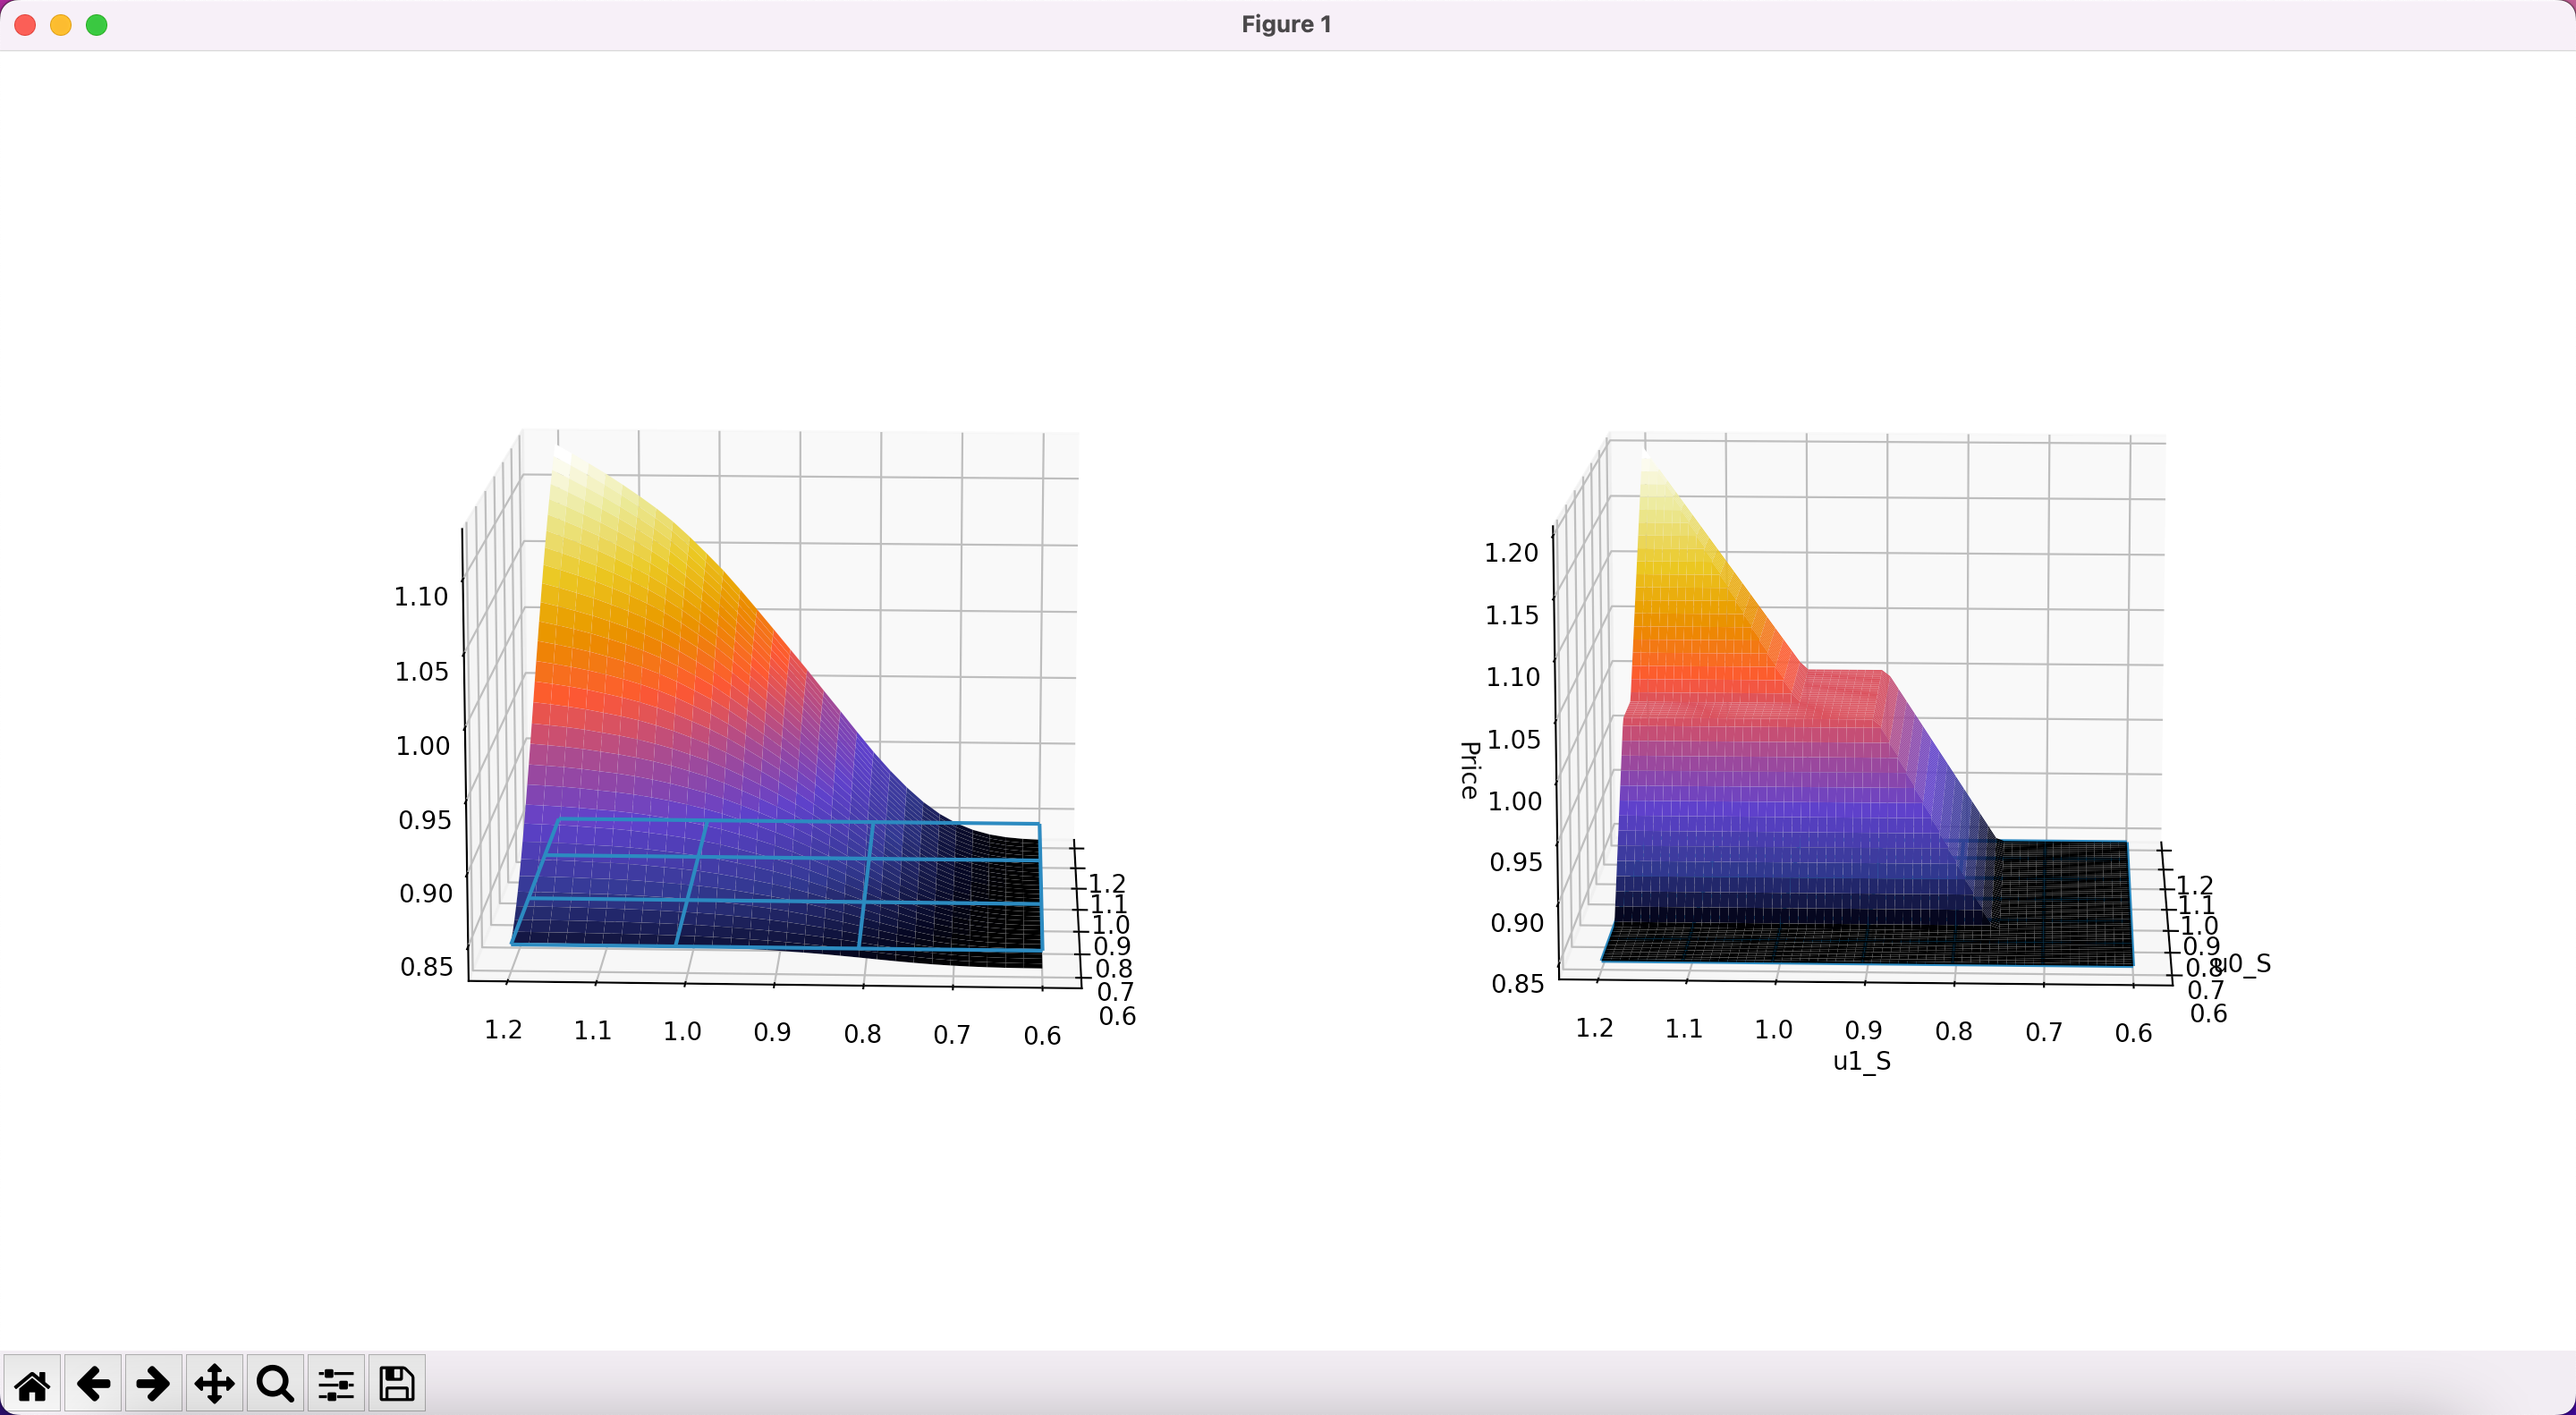
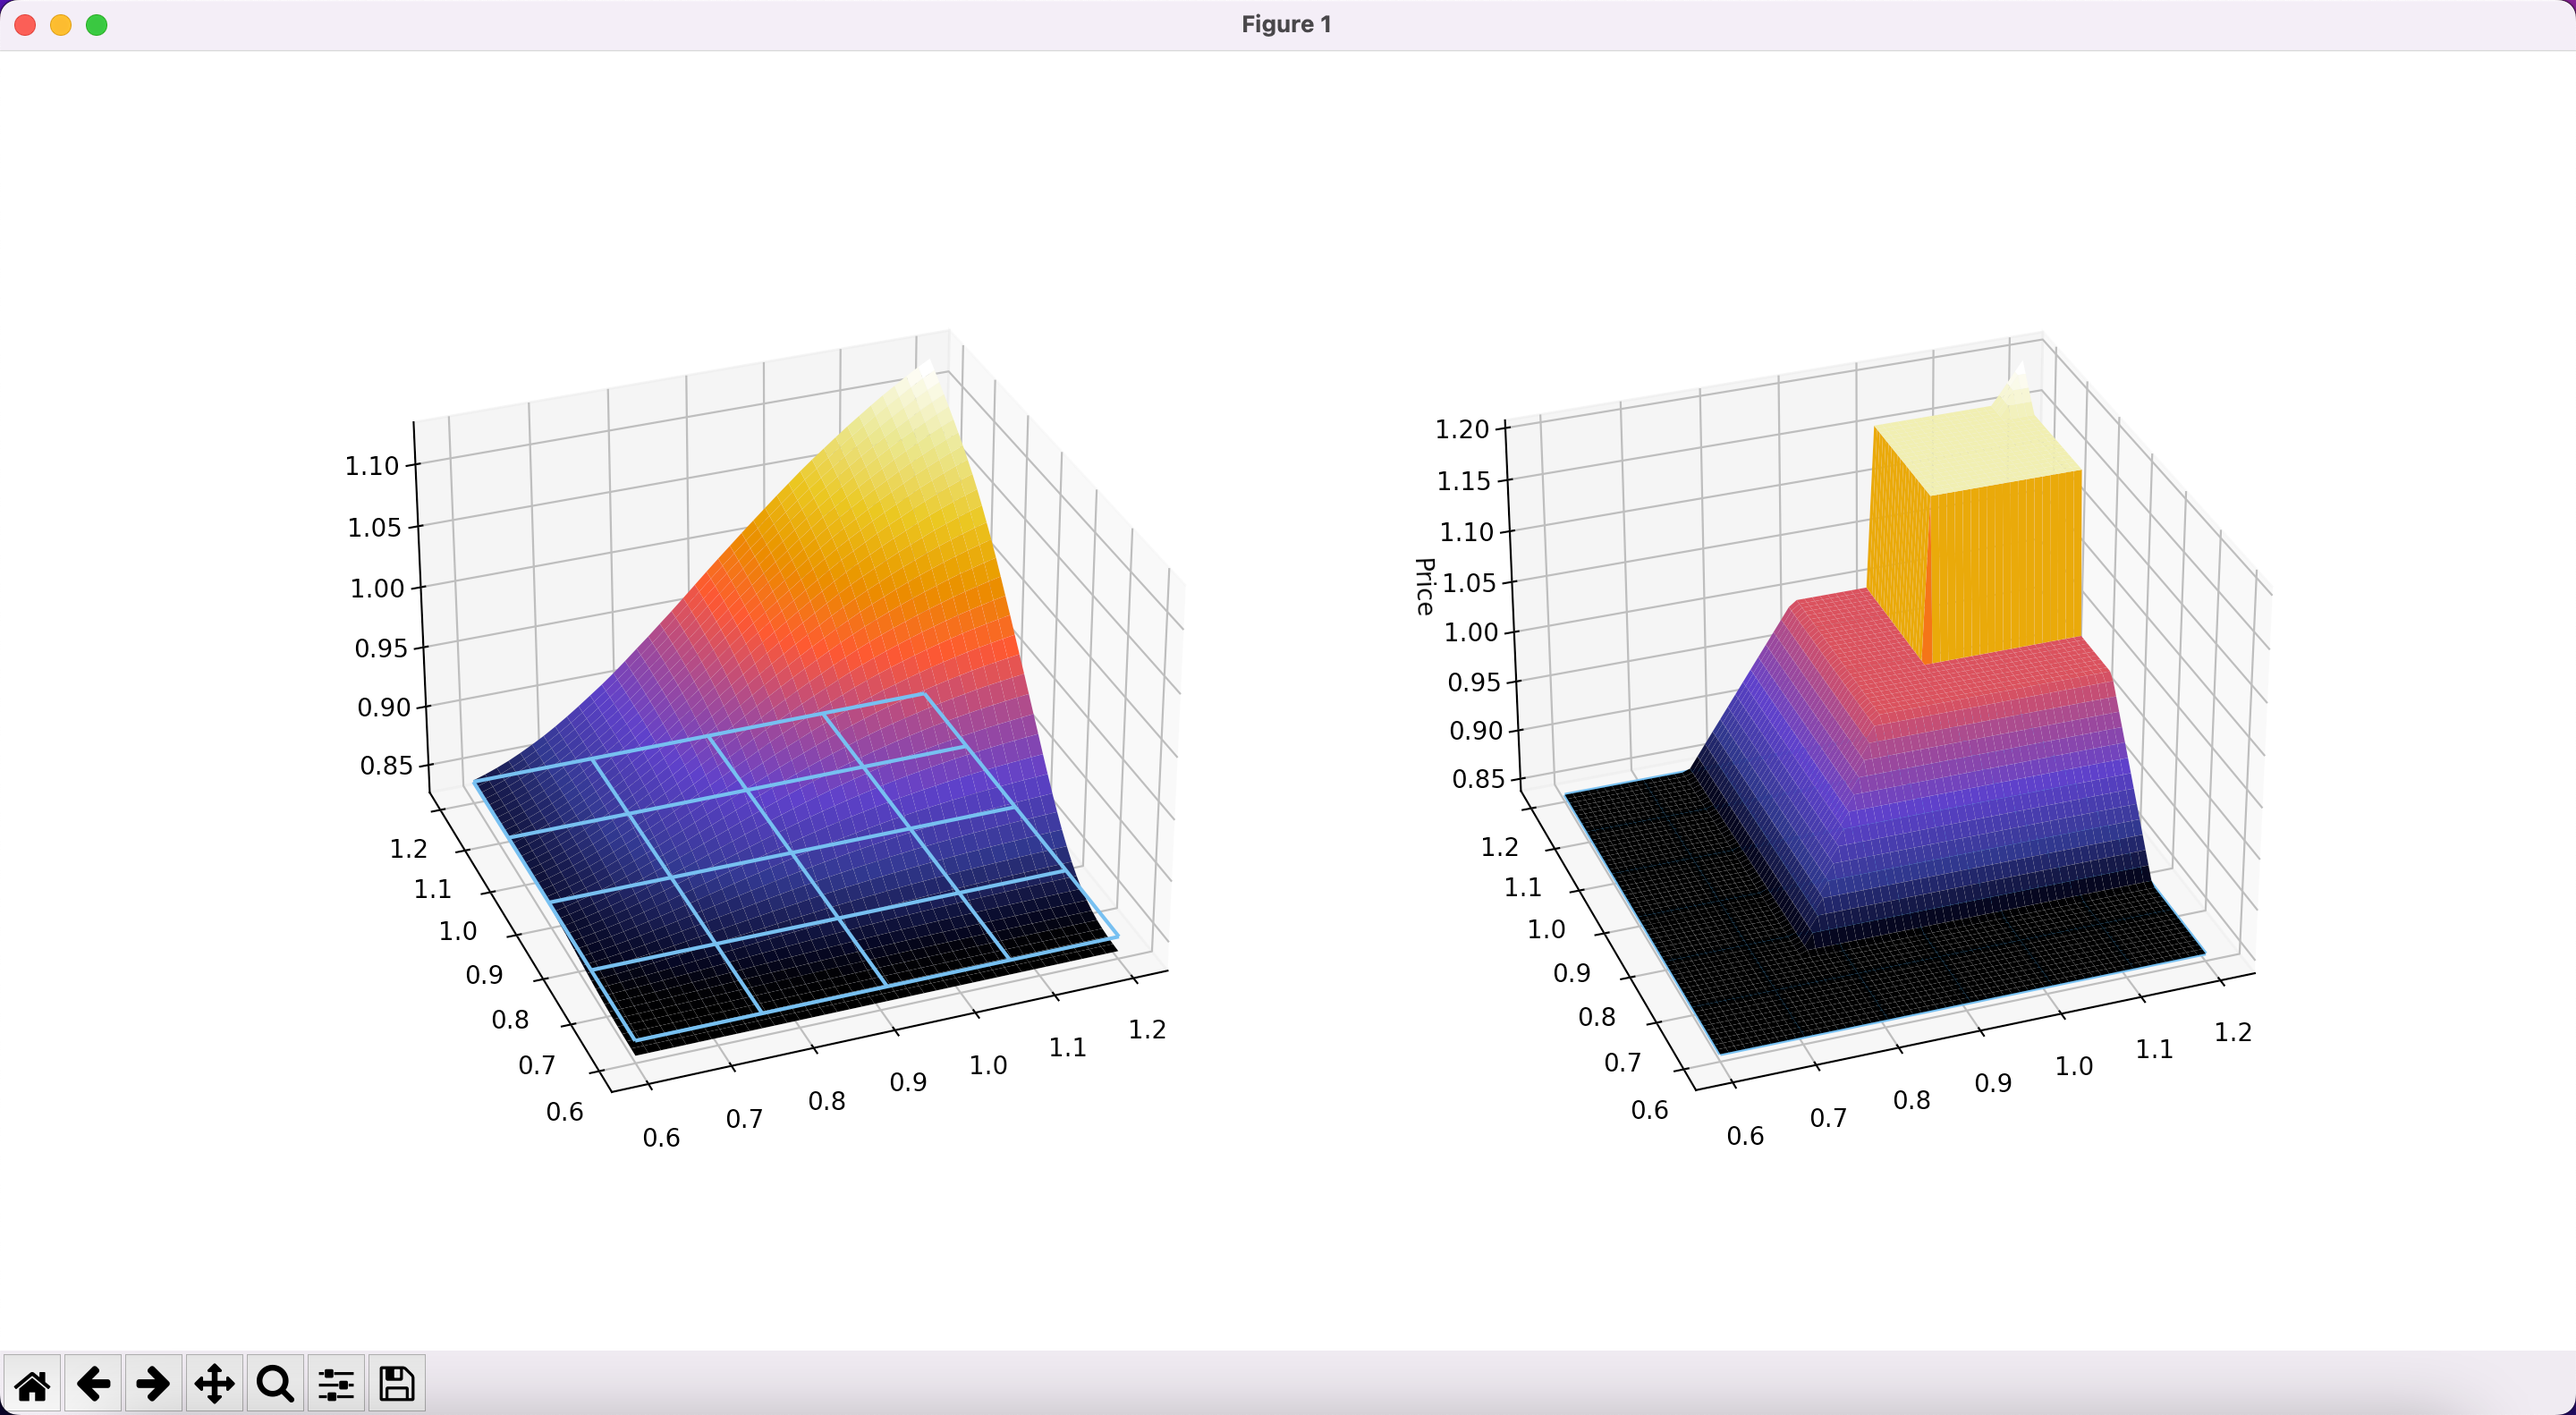
🚧 重新绘制 BEN

Changed region(s): [[0.5312, 0.2478, 0.875, 0.7743], [0.125, 0.2478, 0.4375, 0.7743], [0.5625, 0.2788, 0.5938, 0.3097]]

diff --git a/example/bonus_enhanced_note.py b/example/bonus_enhanced_note.py
@@ -45,7 +45,7 @@ total_time_start = time.perf_counter()
 codes, real_S0, relative_S = data_path_to_codes_real_S0_relative_S(
     {
         "180101.csv": DATA_DIR / "路径模拟数据/180101.csv",
-        # "180201.csv": DATA_DIR / "路径模拟数据/180201.csv",
+        "180201.csv": DATA_DIR / "路径模拟数据/180201.csv",
     }
 )
 
@@ -63,7 +63,7 @@ def bonus_enhanced_note(
     return BaseBEN2(
         codes=codes,
         real_S0=real_S0,
-        all_relative_S_data=relative_S,
+        all_relative_S_data=all_relative_S_data,
         put_strike=put_strike,
         coupon_barrier=coupon_barrier,
         bonus_coupon=bonus_coupon,
@@ -79,8 +79,8 @@ def bonus_enhanced_note_price_3d(min_redemption=0.8447):
         1, 2, figsize=(12, 8), subplot_kw={"projection": "3d"}
     )
 
-    x_num = 30
-    y_num = 30
+    x_num = 40
+    y_num = 40
     u0_relative_St_arr = np.linspace(0.6, 1.2, x_num)
     u1_relative_St_arr = np.linspace(0.6, 1.2, y_num)
     X, Y = np.meshgrid(u0_relative_St_arr, u1_relative_St_arr)
@@ -124,8 +124,6 @@ def bonus_enhanced_note_price_3d(min_redemption=0.8447):
     ax2.plot_surface(  # type:ignore
         X, Y, prices, rstride=1, cstride=1, cmap=cm.get_cmap("CMRmap")
     )
-    ax2.set_xlabel("u0_S")
-    ax2.set_ylabel("u1_S")
     ax2.set_zlabel("Price")  # type:ignore
 
     plt.show()
@@ -135,7 +133,7 @@ def bonus_enhanced_note_price_2dst(min_redemption=0.8447):
 
     op = bonus_enhanced_note(min_redemption=min_redemption)
     relative_St_arr = np.linspace(0.7, 1.3, 300)
-
+    u1st_list = [0.75, 0.85, 0.95, 1.05, 1.15, 1.25]
     prices = pd.DataFrame(
         [
             pd.Series(
@@ -149,20 +147,15 @@ def bonus_enhanced_note_price_2dst(min_redemption=0.8447):
                 ],
                 index=relative_St_arr,
             )
-            for u1st in [0.75, 0.85, 0.95, 1.05, 1.15, 1.25]
+            for u1st in u1st_list
         ]
     ).T
-    plt.plot(prices)
+    prices.columns = np.array([f"{u1st=}" for u1st in u1st_list])
+    prices.plot()
     plt.axhline(min_redemption, c="#76da91", ls="--", lw=0.5)
-    for u1st, y in zip(
-        [0.75, 0.85, 0.95, 1.05, 1.15, 1.25], [0.85, 0.95, 1.01, 1.055, 1.155, 1.255]
-    ):
-        plt.annotate(
-            f"u1st = {u1st}",
-            xy=(1.27, y),
-        )
     plt.xlabel("u0st")
     plt.ylabel("Price")
+    plt.legend()
     plt.show()
 
 
@@ -205,8 +198,6 @@ def bonus_enhanced_note_delta(min_redemption=0.8447):
     ax2.plot_surface(  # type:ignore
         X, Y, prices, rstride=1, cstride=1, cmap=cm.get_cmap("CMRmap")
     )
-    ax2.set_xlabel("u0_S")
-    ax2.set_ylabel("u1_S")
     ax2.set_zlabel("Delta")  # type:ignore
 
     plt.show()
@@ -216,7 +207,7 @@ def bonus_enhanced_note_delta_2ds0(min_redemption=0.8447):
 
     op = bonus_enhanced_note(min_redemption=min_redemption)
     relative_St_arr = np.linspace(0.7, 1.3, 150)
-
+    u1st_list = [0.75, 0.85, 0.95, 1.05, 1.15, 1.25]
     prices = pd.DataFrame(
         [
             pd.Series(
@@ -234,25 +225,21 @@ def bonus_enhanced_note_delta_2ds0(min_redemption=0.8447):
             for u1st in [0.75, 0.85, 0.95, 1.05, 1.15, 1.25]
         ]
     ).T
-    plt.plot(prices)
+    prices.columns = np.array([f"{u1st=}" for u1st in u1st_list])
+    prices = prices.rolling(window=7, center=True).mean().dropna()
+    prices.plot()
     plt.axhline(min_redemption, c="#76da91", ls="--", lw=0.5)
-    for u1st, y in zip(
-        [0.75, 0.85, 0.95, 1.05, 1.15, 1.25], [0.85, 0.95, 1.01, 1.055, 1.155, 1.255]
-    ):
-        plt.annotate(
-            f"u1st = {u1st}",
-            xy=(1.27, y),
-        )
+
     plt.xlabel("u0st")
-    plt.ylabel("Price")
+    plt.ylabel("Delta")
     plt.show()
 
 
-def bonus_enhanced_note_price_2d_single(min_redemption=0.8447):
+def bonus_enhanced_note_price_2d_single(min_redemption=0.8447, bonus_coupon=0.16):
 
-    op = bonus_enhanced_note(min_redemption=min_redemption)
+    op = bonus_enhanced_note(min_redemption=min_redemption, bonus_coupon=bonus_coupon)
     relative_St_arr = np.linspace(0.7, 1.3, 1000)
-    tlist = [365]
+    tlist = [0, 183, 360, 365]
     prices = pd.DataFrame(
         [
             pd.Series(
@@ -272,23 +259,34 @@ def bonus_enhanced_note_price_2d_single(min_redemption=0.8447):
     prices.columns = np.array([f"{t=}" for t in tlist])
     prices.plot()
 
+    plt.axhline(min_redemption, c="#9987ce", ls="--", lw=1)
+    plt.axhline(1 + bonus_coupon, c="#eddd86", ls="--", lw=1)
+    plt.axhline(1, c="#efa666", ls="--", lw=1)
+
     plt.xlabel("S")
     plt.ylabel("Price")
     plt.legend()
     plt.show()
 
 
-def bonus_enhanced_note_delta_2d_single(min_redemption=0.8447):
+def bonus_enhanced_note_delta_2d_single(
+    put_strike=0.9, min_redemption=0.8447, bonus_coupon=0.16
+):
 
-    op = bonus_enhanced_note(min_redemption=min_redemption)
-    relative_St_arr = np.linspace(0.7, 1.3, 150)
+    op = bonus_enhanced_note(
+        put_strike=put_strike, min_redemption=min_redemption, bonus_coupon=bonus_coupon
+    )
+    relative_St_arr = np.linspace(0.7, 1.3, 300)
+    # tlist = list(range(361, 366, 2))
+    tlist = [0, 183, 300, 365]
+    # 183, 300, 365
 
     prices = pd.DataFrame(
         [
             pd.Series(
                 [
                     op.price_and_delta_at(
-                        0,
+                        t,
                         np.array([u0st]),
                         underlying=0,
                         price_only=False,
@@ -297,13 +295,17 @@ def bonus_enhanced_note_delta_2d_single(min_redemption=0.8447):
                 ],
                 index=relative_St_arr,
             )
+            for t in tlist
         ]
     ).T
-    plt.plot(prices)
-    plt.axhline(min_redemption, c="#76da91", ls="--", lw=0.5)
-
-    plt.xlabel("u0st")
-    plt.ylabel("Price")
+    prices.columns = np.array([f"{t=}" for t in tlist])
+    prices = prices.rolling(window=7, center=True).mean().dropna()
+    prices.plot()
+    plt.axhline(1, c="#76da91", ls="--", lw=1)
+    plt.axhline(1 / put_strike, c="#efa666", ls="--", lw=1)
+    plt.ylim(bottom=-0.25, top=1.3)
+    plt.xlabel("S")
+    plt.ylabel("Delta")
     plt.show()
 
 
@@ -312,6 +314,6 @@ if __name__ == "__main__":
     # bonus_enhanced_note_price_2dst()
 
     # bonus_enhanced_note_delta()
-    # bonus_enhanced_note_delta_2ds0()
-    bonus_enhanced_note_price_2d_single()
+    bonus_enhanced_note_delta_2ds0()
+    # bonus_enhanced_note_price_2d_single()
     # bonus_enhanced_note_delta_2d_single()

diff --git a/example/eln.py b/example/eln.py
@@ -154,7 +154,7 @@ def eln_delta(
     plt.show()
 
 
-def delta_hedging():
+def delta_hedging(npaths):
     op = elnv()
     # print(op)
     # print(op.price())
@@ -163,7 +163,7 @@ def delta_hedging():
     # print(sample_delta_hedging_paths)
 
     return_ = []
-    for npath in range(0, 20000, 20):
+    for npath in range(0, 20000, 20000 // npaths):
         price_delta_list = []
         S = []
         for i in range(op.T + 1):
@@ -190,8 +190,8 @@ def delta_hedging():
         else:
             cbs[-1] = cbs[-1] - 1 / 0.9404 * S[-1] + deltas[-1] * S[-1]
         return_.append(cbs[-1])
-        # plt.plot(np.array(cbs))
-        # plt.show()
+        plt.plot(np.array(cbs))
+    plt.show()
 
     return_arr = np.array(return_)
     pd.DataFrame(return_arr).to_csv(EXAMPLT_DATA / "eln.csv")
@@ -206,4 +206,4 @@ if __name__ == "__main__":
 
     # eln_find_strike()
     # eln_delta()
-    delta_hedging()
+    delta_hedging(10)

diff --git a/src/fistqslab/option_pricing/bonus_enhanced_note.py b/src/fistqslab/option_pricing/bonus_enhanced_note.py
@@ -190,7 +190,7 @@ class BaseBEN2(MonteCarlo2):
         ).price()
         delta = None
         if not price_only:
-            epsilon = 0.001
+            epsilon = 0.0005
             upper = left_paths.copy()
             upper[underlying] += epsilon
             lower = left_paths.copy()
